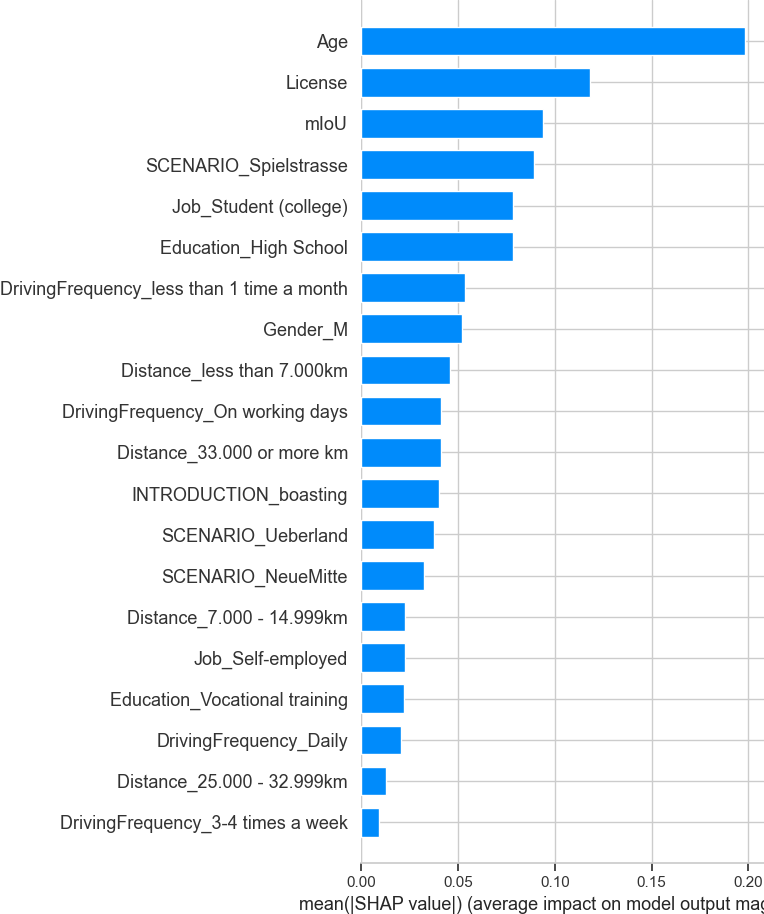
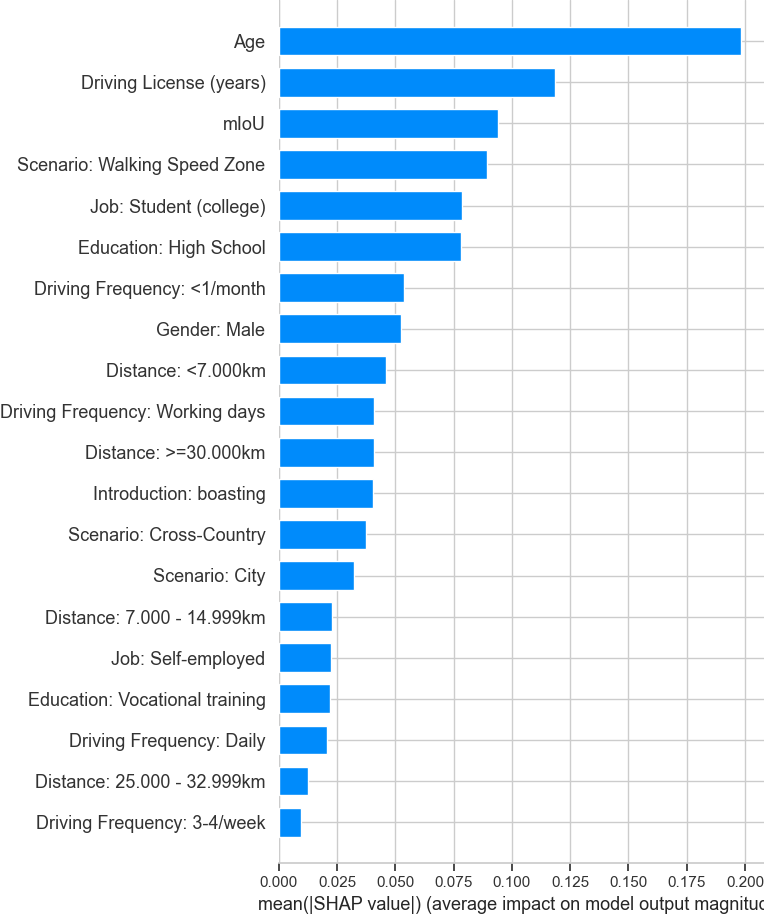
Update labels

diff --git a/ML-approaches.py b/ML-approaches.py
@@ -454,7 +454,7 @@ importance_data = pd.DataFrame({
 
 # Sort by importance
 importance_data = importance_data.sort_values(by='Importance', ascending=False)
-importance_data.index = importance_data.index.to_series().replace(label_replacements)
+importance_data['Feature'] = importance_data['Feature'].replace(label_replacements)
 
 
 # Start plotting
@@ -487,6 +487,8 @@ file_path = folder_path / 'perm_importances_random_regressor.png'
 plt.savefig(file_path, bbox_inches='tight', pad_inches=0)
 
 
+# Rename the columns in X_test using label_replacements
+X_test_renamed = X_test.rename(columns=label_replacements)
 
 explainer = shap.TreeExplainer(forest)
 shap_values = explainer.shap_values(X_test)
@@ -494,9 +496,8 @@ shap_values = explainer.shap_values(X_test)
 # Increase the figure size for better readability
 plt.figure(figsize=(10, 8))
 # Generate the SHAP summary plot with a specified color palette
-shap.summary_plot(shap_values, X_test, plot_type="bar", cmap=plt.get_cmap('coolwarm'), show=False)
-
-# Adjust layout to fit and prevent label cut-off
+shap.summary_plot(shap_values, X_test_renamed, plot_type="bar", cmap=plt.get_cmap('coolwarm'), show=False)
+#shap.summary_plot(shap_values, X_test, plot_type="bar", cmap=plt.get_cmap('coolwarm'), show=False)
 plt.tight_layout()
 
 # Save the plot in high resolution
@@ -577,31 +578,16 @@ file_path = folder_path / 'feature_importance_catboost.png'
 plt.savefig(file_path, bbox_inches='tight', pad_inches=0)
 
 
-print("AT EXPLAINER")
-
-
 explainercat = shap.TreeExplainer(model)
 shap_values_cat_test = explainercat.shap_values(X_test)
 shap_values_cat_train = explainercat.shap_values(X_train)
 
-#fig = plt.subplots(figsize=(6,6),dpi=150)
-#ax_3= shap.plots._waterfall.waterfall_legacy(explainercat.expected_value, shap_values_cat_test[5], feature_names = X_test.columns,max_display = 20)
-
-#fig = plt.subplots(figsize=(6,6),dpi=200)
-#ax_2= shap.decision_plot(explainercat.expected_value, shap_values_cat_test[15], X_test.iloc[[15]], link= "logit")
-
-#shap.initjs()
-#shap.force_plot(explainercat.expected_value, shap_values_cat_test[:50], X_test.iloc[:50],link= "logit")
-
-
 
 ########## XGBoost IMPORTANCE ##################
-print("AT XGBoost")
-
-# try it with XGBoost
+#print("AT XGBoost")
 import xgboost as xgb
 
-# Convert categorical columns to 'category' type
+
 for feature in categorical_features:
     df_original_xgboost[feature] = df_original_xgboost[feature].astype('category')
 
@@ -746,13 +732,16 @@ plt.savefig(file_path, bbox_inches='tight', pad_inches=0)
 explainer = shap.TreeExplainer(model)
 explanation = explainer(X_test)
 
+# Update the feature names using the label_replacements dictionary
+explanation.feature_names = [
+    label_replacements.get(feat, feat) for feat in explanation.feature_names
+]
+
 shap_values = explanation.values
 # make sure the SHAP values add up to marginal predictions
 np.abs(shap_values.sum(axis=1) + explanation.base_values - y_pred).max()
 
 
-
-# Increase the figure size for better readability
 plt.figure(figsize=(10, 8))
 # Generate the SHAP summary plot with a specified color palette
 shap.plots.beeswarm(explanation, show = False)